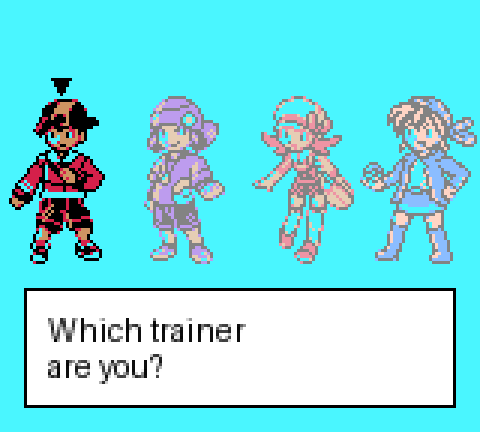
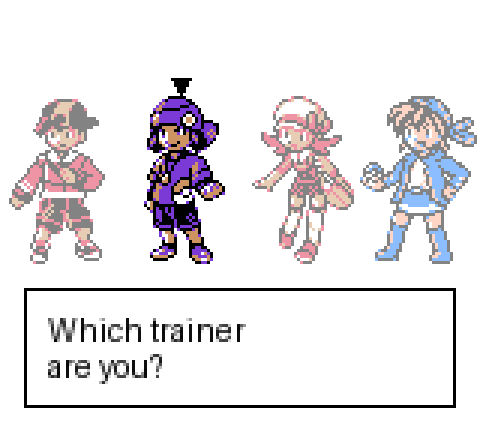
updates to characters on new game

diff --git a/Claude outputs/CHARACTER_SELECT_NOTES.md b/Claude outputs/CHARACTER_SELECT_NOTES.md
@@ -27,9 +27,14 @@ to bank 0.
 
 Everyone keeps their own colors: BG palettes 1-4 hold Gold's, Indigo's, Lyra's and
 Mint's real palettes, and the three you are *not* on get every channel blended
-halfway to white (`c / 2 + 16`, one masked shift and one or). Color 0 of each is
-set to the screen's light blue instead of white, so the pics sit flush on the
-background instead of each showing a white box.
+halfway to white (`c / 2 + 16`, one masked shift and one or).
+
+The background is plain white on this screen only — the other setup screens
+(difficulty, typing, stats) keep the light blue. `CharSelect_FillBackground`
+paints the screen with the blank textbox tile, which is solid color 0, and every
+character palette shares white as its color 0, so the pics sit flush with no box
+around them. The cursor row stays on palette 0, so an empty cursor slot is blank
+white rather than showing color 1 of a character's palette.
 
 ## Things to know
 
